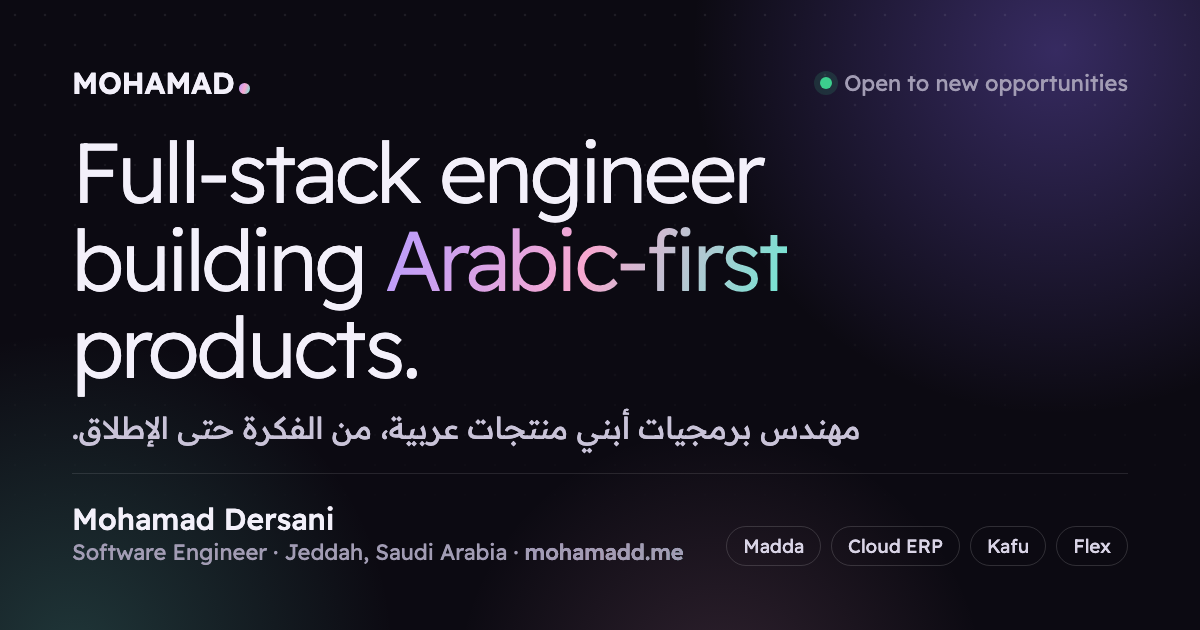
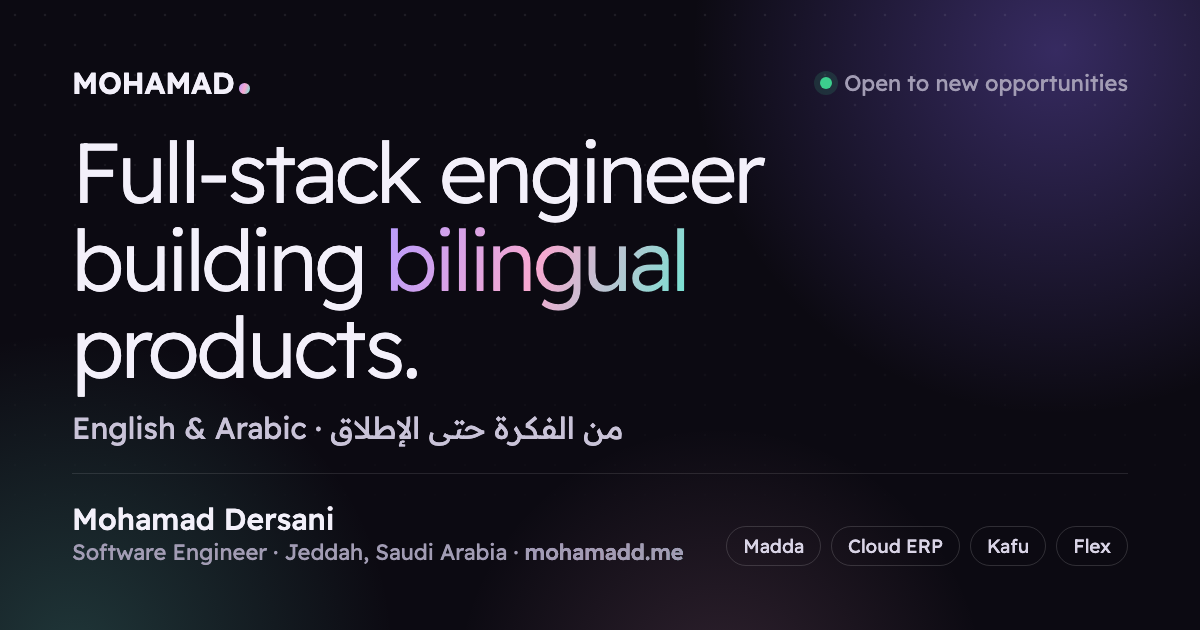
Bring back the live hero background; reword Arabic-first as bilingual
- Hero background now spans the full width, drifts on its own and has
  a stronger cursor glow (it was faint and boxed into the content width)
- Headline, about, principle 03, Madda copy and link previews now say
  bilingual / English and Arabic instead of Arabic-first
- Gradient text no longer clips letter descenders
- Clip horizontal overflow at the page edges (iOS Safari)
- Re-render the link preview image with the new wording

Changed region(s): [[0.3083, 0.3619, 0.6783, 0.5127], [0.0617, 0.6635, 0.7092, 0.7238]]

diff --git a/index.html b/index.html
@@ -4,24 +4,24 @@
 <meta charset="utf-8">
 <meta name="viewport" content="width=device-width, initial-scale=1">
 <title>Mohamad Dersani — Software Engineer</title>
-<meta name="description" content="Mohamad Dersani — full-stack software engineer in Jeddah, building Arabic-first products from idea to launch.">
+<meta name="description" content="Mohamad Dersani — full-stack software engineer in Jeddah, building bilingual products in English and Arabic, from idea to launch.">
 <link rel="canonical" href="https://mohamadd.me/">
 <link rel="icon" href="favicon.svg" type="image/svg+xml">
 <meta name="theme-color" content="#0c0a12">
 <meta property="og:type" content="website">
 <meta property="og:url" content="https://mohamadd.me/">
 <meta property="og:title" content="Mohamad Dersani — Software Engineer">
-<meta property="og:description" content="Full-stack engineer building Arabic-first products, from idea to launch. Projects: Madda, Cloud ERP, Kafu, Flex.">
+<meta property="og:description" content="Full-stack engineer building bilingual products, from idea to launch. Projects: Madda, Cloud ERP, Kafu, Flex.">
 <meta property="og:site_name" content="Mohamad Dersani">
 <meta property="og:image" content="https://mohamadd.me/og-image.png">
 <meta property="og:image:type" content="image/png">
 <meta property="og:image:width" content="1200">
 <meta property="og:image:height" content="630">
-<meta property="og:image:alt" content="Mohamad Dersani — Full-stack engineer building Arabic-first products">
+<meta property="og:image:alt" content="Mohamad Dersani — Full-stack engineer building bilingual products">
 <meta name="twitter:card" content="summary_large_image">
 <meta name="twitter:image" content="https://mohamadd.me/og-image.png">
 <meta name="twitter:title" content="Mohamad Dersani — Software Engineer">
-<meta name="twitter:description" content="Full-stack engineer building Arabic-first products, from idea to launch.">
+<meta name="twitter:description" content="Full-stack engineer building bilingual products, from idea to launch.">
 <link rel="preconnect" href="https://fonts.googleapis.com">
 <link rel="preconnect" href="https://fonts.gstatic.com" crossorigin>
 <link href="https://fonts.googleapis.com/css2?family=Readex+Pro:wght@200..700&display=swap" rel="stylesheet">
@@ -51,7 +51,10 @@
     --accent: #b69cff;
     --on-accent: #120e1c;
     --grad: linear-gradient(110deg, #b69cff 0%, #f7a8d0 45%, #6ee7d3 100%);
-    --glow: #8b6cff2e;
+    --glow: #8b6cff55;
+    --blob-1: #8b6cff4d;
+    --blob-2: #f7a8d033;
+    --blob-3: #6ee7d32e;
     --glow-2: #6ee7d31f;
     --on-grad: #120e1c;
     --grid: #ffffff0c;
@@ -68,7 +71,10 @@
     --accent: #6b4ee6;
     --on-accent: #fff;
     --grad: linear-gradient(110deg, #6b4ee6 0%, #d14b8f 50%, #0f9d8a 100%);
-    --glow: #8b6cff26;
+    --glow: #8b6cff38;
+    --blob-1: #8b6cff33;
+    --blob-2: #f7a8d040;
+    --blob-3: #6ee7d333;
     --glow-2: #2bc4ad1f;
     --on-grad: #fff;
     --grid: #0000000b;
@@ -91,14 +97,14 @@
   }
 
   * { box-sizing: border-box; margin: 0; padding: 0; }
-  html { scroll-behavior: smooth; -webkit-text-size-adjust: 100%; }
+  html { scroll-behavior: smooth; -webkit-text-size-adjust: 100%; overflow-x: hidden; overflow-x: clip; }
   body {
     font-family: "Readex Pro", system-ui, sans-serif;
     background: var(--bg);
     color: var(--fg);
     font-size: 16px;
     line-height: 1.6;
-    overflow-x: hidden;
+    overflow-x: hidden; overflow-x: clip;
     transition: background-color .4s var(--ease), color .4s var(--ease);
   }
   a { color: inherit; text-decoration: none; }
@@ -139,12 +145,28 @@
   /* ---------- Hero ---------- */
   .hero {
     position: relative; min-height: 100svh; display: flex; flex-direction: column; justify-content: flex-end;
-    padding-block: 140px 56px; overflow: hidden;
+    padding-block: 140px 56px; isolation: isolate;
+  }
+  /* Full-width layers: drifting aurora (::after) + cursor glow and dot grid (::before) */
+  .hero::after {
+    content: ""; position: absolute; z-index: -2; pointer-events: none;
+    inset: -12% calc(50% - 50vw) 8%;
+    background:
+      radial-gradient(38% 46% at 22% 32%, var(--blob-1), transparent 70%),
+      radial-gradient(32% 42% at 80% 22%, var(--blob-2), transparent 70%),
+      radial-gradient(36% 44% at 62% 78%, var(--blob-3), transparent 70%);
+    filter: blur(30px);
+    animation: drift 18s ease-in-out infinite alternate;
+  }
+  @keyframes drift {
+    0% { transform: translate3d(-5%, -3%, 0) scale(1); }
+    50% { transform: translate3d(4%, 3%, 0) scale(1.1); }
+    100% { transform: translate3d(-2%, 5%, 0) scale(1.04); }
   }
   .hero::before {
-    content: ""; position: absolute; inset: 0; z-index: -1; pointer-events: none;
+    content: ""; position: absolute; inset: 0 calc(50% - 50vw); z-index: -1; pointer-events: none;
     background:
-      radial-gradient(520px circle at var(--mx, 75%) var(--my, 25%), var(--glow), transparent 65%),
+      radial-gradient(560px circle at var(--mx, 75%) var(--my, 25%), var(--glow), transparent 65%),
       radial-gradient(420px circle at 15% 85%, var(--glow-2), transparent 70%),
       radial-gradient(var(--grid) 1.2px, transparent 1.4px) 0 0 / 26px 26px;
     -webkit-mask-image: linear-gradient(to bottom, #000 40%, transparent 95%);
@@ -154,6 +176,8 @@
     background: var(--grad); background-size: 200% 100%;
     -webkit-background-clip: text; background-clip: text; color: transparent;
   }
+  /* room for descenders (g, y, ق) inside the gradient-clipped box */
+  .word.hl { padding-block: .06em .18em; margin-block: -.06em -.18em; }
   .js .word.hl {
     animation: word-in 1s var(--ease) forwards, shimmer 6s linear infinite;
     animation-delay: calc(var(--i) * 80ms + 150ms), 1.4s;
@@ -644,7 +668,7 @@
   }
 
   @media print {
-    .site-header, .controls, .hero::before, .acts { display: none !important; }
+    .site-header, .controls, .hero::before, .hero::after, .acts { display: none !important; }
     .hero { min-height: auto; padding-block: 20px; }
     .js [data-reveal], .js .word { opacity: 1 !important; translate: none !important; filter: none !important; }
     .track { flex-wrap: wrap; overflow: visible; padding-inline: var(--gutter); }
@@ -676,8 +700,8 @@
 <!-- ===== HERO ===== -->
 <section class="hero wrap" data-hero>
   <h1 data-split>
-    <span class="en" data-hl="Arabic-first">Full-stack engineer building Arabic-first products, from idea to launch.</span>
-    <span class="ar" data-hl="عربية">مهندس برمجيات أبني منتجات عربية متكاملة، من الفكرة حتى الإطلاق.</span>
+    <span class="en" data-hl="bilingual">Full-stack engineer building bilingual products, from idea to launch.</span>
+    <span class="ar" data-hl="ثنائية اللغة">مهندس برمجيات أبني منتجات ثنائية اللغة، من الفكرة حتى الإطلاق.</span>
   </h1>
   <div class="hero-meta">
     <div class="who">
@@ -717,7 +741,7 @@
       </div>
       <div class="wbody">
         <div class="wtop"><h3>Madda<small>مادة</small></h3><span class="badge"><span class="en">In progress</span><span class="ar">قيد التطوير</span></span></div>
-        <p><span class="en">An Arabic-first AI assistant for Saudi Labor Law. Every answer cites the article and quotes the official text verbatim.</span><span class="ar">مساعد ذكي لنظام العمل السعودي بالعربية أولًا. كل إجابة تستشهد بالمادة وتنقل النص الرسمي حرفيًا.</span></p>
+        <p><span class="en">An AI assistant for Saudi Labor Law, in English and Arabic. Every answer cites the article and quotes the official text verbatim.</span><span class="ar">مساعد ذكي لنظام العمل السعودي بالعربية والإنجليزية. كل إجابة تستشهد بالمادة وتنقل النص الرسمي حرفيًا.</span></p>
         <ul class="chips"><li>Claude API</li><li>RAG</li><li>FastAPI</li><li>Next.js</li></ul>
         <a class="open-link" href="#p/madda"><span><span class="en">View project</span><span class="ar">عرض المشروع</span></span><svg viewBox="0 0 24 24" fill="none" stroke="currentColor" stroke-width="2"><path d="M5 12h14M13 6l6 6-6 6"/></svg></a>
       </div>
@@ -845,8 +869,8 @@
           <span class="ar">خريج هندسة برمجيات من جامعة أسكودار (2026)، بخبرة عملية في تسليم أنظمة تعمل في الإنتاج وقيادة المشاريع من المتطلبات حتى منتج حيّ ومُختبَر.</span>
         </p>
         <p>
-          <span class="en">My foundation is algorithms: 256 problems solved across Codeforces and LeetCode and a Codeforces Specialist rating. Today I build Arabic-first products for the Saudi market, using AI to move faster.</span>
-          <span class="ar">أساسي الخوارزميات: 256 مسألة محلولة على Codeforces وLeetCode وتصنيف Specialist. وأبني اليوم منتجات عربية للسوق السعودي، وأستخدم الذكاء الاصطناعي لأنجز أسرع.</span>
+          <span class="en">My foundation is algorithms: 256 problems solved across Codeforces and LeetCode and a Codeforces Specialist rating. Today I build products in English and Arabic for Saudi and international users, using AI to move faster.</span>
+          <span class="ar">أساسي الخوارزميات: 256 مسألة محلولة على Codeforces وLeetCode وتصنيف Specialist. وأبني اليوم منتجات بالإنجليزية والعربية لمستخدمين في السعودية وخارجها، وأستخدم الذكاء الاصطناعي لأنجز أسرع.</span>
         </p>
       </div>
     </div>
@@ -879,8 +903,8 @@
     </div>
     <div class="principle" data-reveal>
       <div class="n">03</div>
-      <h3><span class="en">Arabic is a first language</span><span class="ar">العربية لغة أصلية</span></h3>
-      <p><span class="en">Interfaces, search, numbers and direction are designed in Arabic from day one — not translated in the last week.</span><span class="ar">الواجهة والبحث والأرقام والاتجاه تُصمَّم بالعربية من أول يوم، لا تُترجَم في آخر أسبوع.</span></p>
+      <h3><span class="en">Built for both languages</span><span class="ar">مصمَّم للغتين</span></h3>
+      <p><span class="en">English and Arabic, left-to-right and right-to-left, are designed together from day one — neither one is an afterthought.</span><span class="ar">الإنجليزية والعربية، من اليسار ومن اليمين، تُصمَّمان معًا من أول يوم — ولا تكون أيٌّ منهما فكرة لاحقة.</span></p>
     </div>
     <div class="principle" data-reveal style="--d:1">
       <div class="n">04</div>
@@ -1253,9 +1277,10 @@
   /* Split hero headline into words for the staggered entrance */
   document.querySelectorAll('[data-split] > span').forEach(function (el) {
     var words = el.textContent.trim().split(/\s+/);
-    var hl = el.dataset.hl || '';
+    var hl = (el.dataset.hl || '').split(' ').filter(Boolean);
     el.innerHTML = words.map(function (w, i) {
-      var cls = hl && w.indexOf(hl) === 0 ? 'word hl' : 'word';
+      var bare = w.replace(/[.,،؛:!?]/g, '');
+      var cls = hl.indexOf(bare) !== -1 ? 'word hl' : 'word';
       return '<span class="' + cls + '" style="--i:' + i + '">' + w + '</span>';
     }).join(' ');
   });
@@ -1269,7 +1294,7 @@
   var hero = document.querySelector('[data-hero]');
   hero.addEventListener('pointermove', function (e) {
     var r = hero.getBoundingClientRect();
-    hero.style.setProperty('--mx', (e.clientX - r.left) + 'px');
+    hero.style.setProperty('--mx', (e.clientX - r.left + (innerWidth - r.width) / 2) + 'px');
     hero.style.setProperty('--my', (e.clientY - r.top) + 'px');
   });
 
@@ -1362,7 +1387,7 @@
     madda: {
       n: '01', tone: 'var(--tone-olive)',
       title: { en: 'Madda', ar: 'مادة' }, alt: { en: 'مادة', ar: 'Madda' },
-      one: { en: 'An Arabic-first AI assistant for the Saudi Labor Law — every answer cites the article, quoted verbatim from the official source.', ar: 'مساعد ذكي لنظام العمل السعودي بالعربية أولًا — كل إجابة تستشهد بالمادة وتنقل نصها حرفيًا من المصدر الرسمي.' },
+      one: { en: 'An AI assistant for the Saudi Labor Law, in English and Arabic — every answer cites the article, quoted verbatim from the official source.', ar: 'مساعد ذكي لنظام العمل السعودي بالعربية والإنجليزية — كل إجابة تستشهد بالمادة وتنقل نصها حرفيًا من المصدر الرسمي.' },
       meta: [
         [{ en: 'Role', ar: 'الدور' }, { en: 'Whole product', ar: 'المنتج كاملًا' }],
         [{ en: 'Status', ar: 'الحالة' }, { en: 'In progress', ar: 'قيد التطوير' }],
